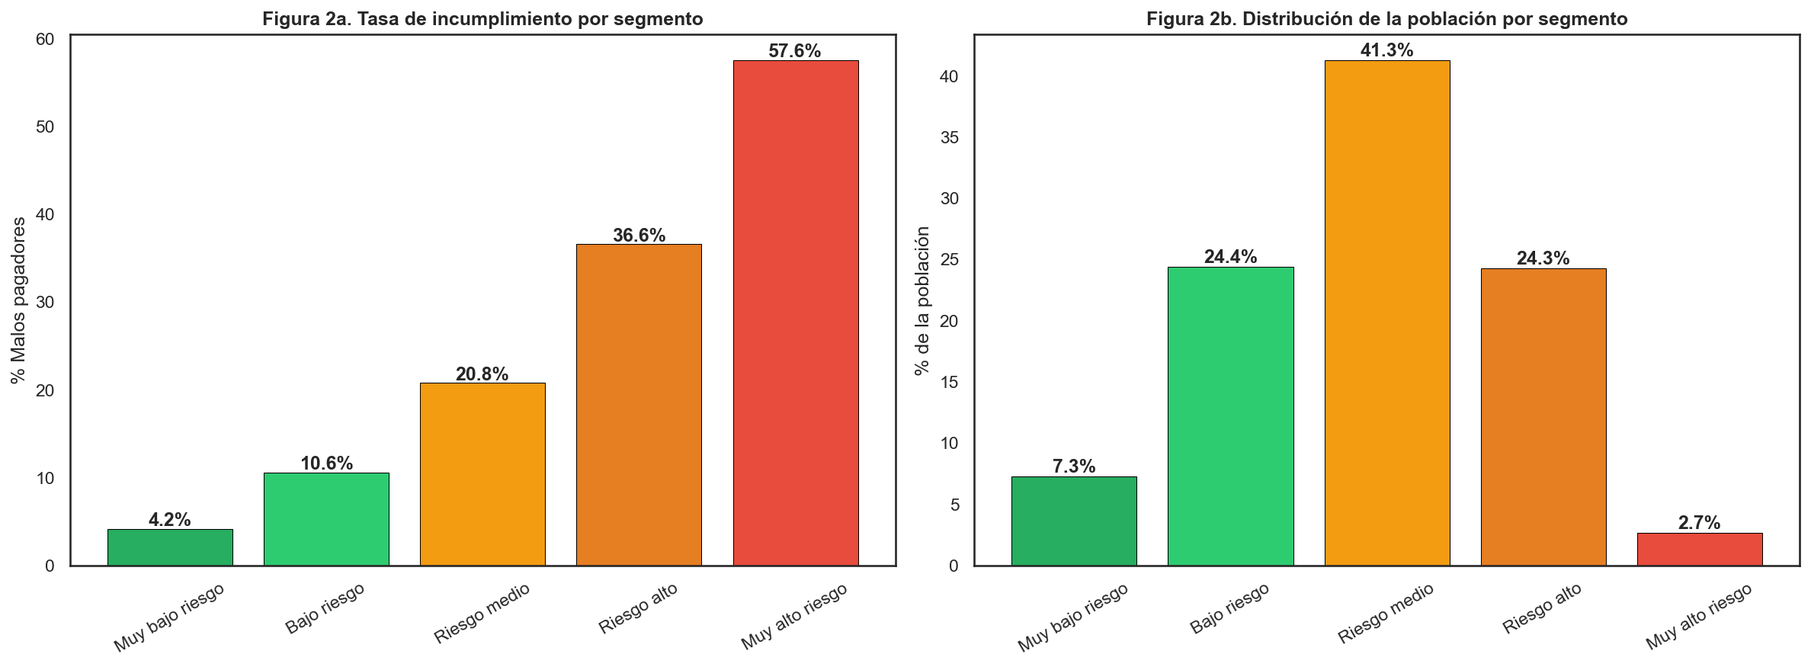
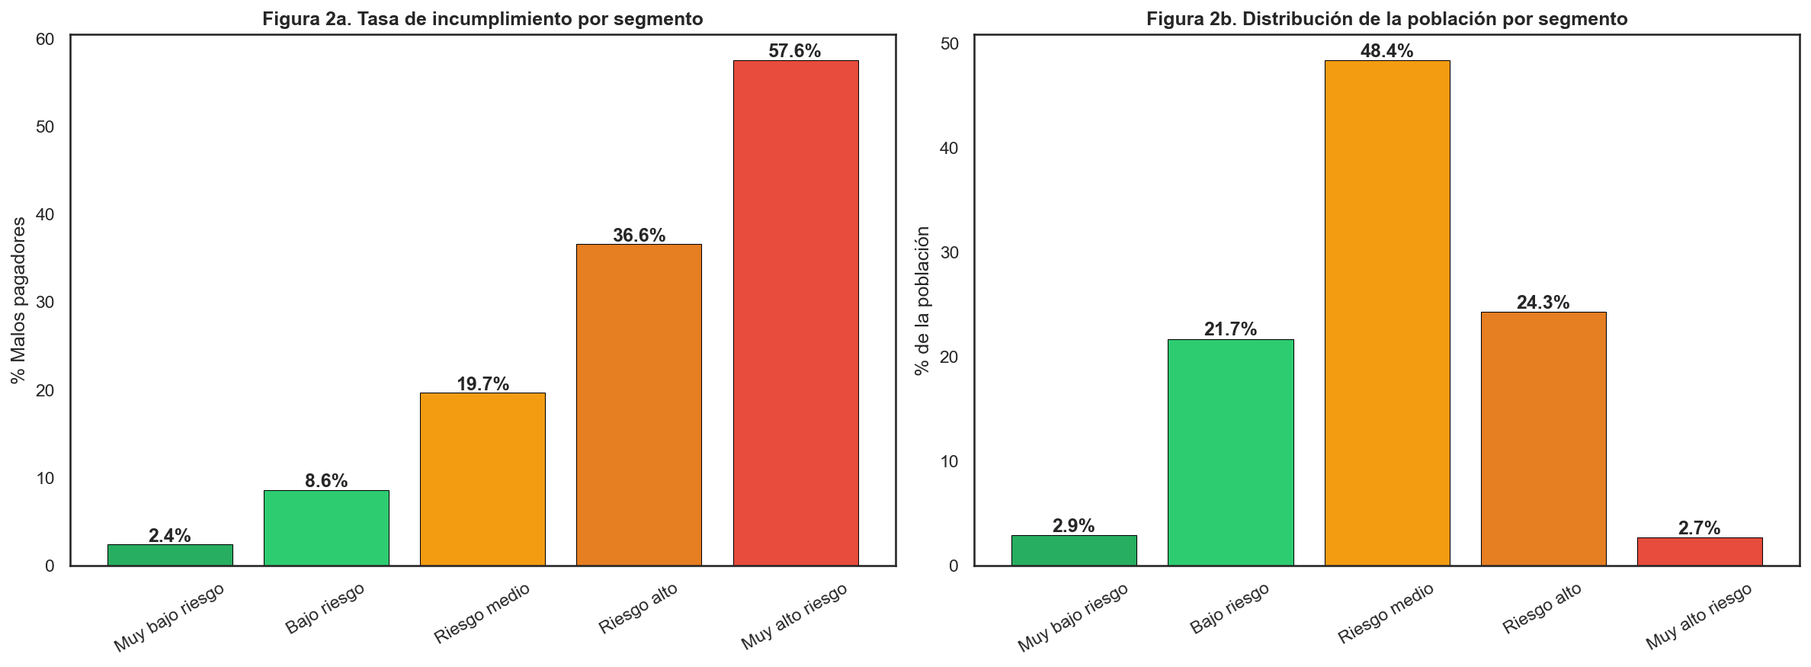
Agregar video y corregir detalles de redacción

diff --git a/docs/casodeuso.md b/docs/casodeuso.md
@@ -60,7 +60,7 @@ $$\text{Score} = \text{Offset} + \text{Factor} \cdot \ln(\text{Odds})$$
 *Ecuación 4. Cálculo del Score Crediticio a partir de los Odds*
 </div>
 
-> **Nota técnica:** En el código, se aplica un truncamiento (*clip*) al resultado final para asegurar que ningún puntaje exceda los límites operativos de [300, 850], manteniendo la consistencia con los estándares de la industria.
+> **Nota:** En el código, se aplica un truncamiento (*clip*) al resultado final para asegurar que ningún puntaje exceda los límites operativos de [300, 850], manteniendo la consistencia con los estándares de la industria.
 
 ## Análisis del Score en la Población
 
@@ -72,14 +72,14 @@ Tras aplicar el modelo al conjunto de prueba, observamos lo siguiente:
 </div>
 
 ### Estadísticas Clave del Modelo:
-*   **Score Mínimo:** 528.5
-*   **Score Máximo:** 685.6
+*   **Score Mínimo:** 530.1
+*   **Score Máximo:** 702.6
 *   **Media General:** 605.0
-*   **Mediana:** 604.2
+*   **Mediana:** 604.0
 
 Como se observa en los boxplots de la **Figura 1**, aunque existe una diferencia entre las medias, esta no es tan pronunciada:
-*   **Buen pagador (Promedio):** 608.5 puntos.
-*   **Mal pagador (Promedio):** 592.7 puntos.
+*   **Buen pagador (Promedio):** 608.4 puntos.
+*   **Mal pagador (Promedio):** 592.5 puntos.
 
 Lo anterior nos permite entender por qué cuesta tanto separar a los buenos pagadores de los malos pagadores y es que sus distribuciones están solapadas en gran parte del tramo de los scores, lo cual influye en el resultado de las predicciones del modelo.
 
@@ -87,30 +87,30 @@ Lo anterior nos permite entender por qué cuesta tanto separar a los buenos paga
 
 Para que el puntaje sea útil en el día a día, dividimos a los clientes en 5 niveles de riesgo. Es importante mencionar que aunque usamos la escala tradicional de 300 a 850 puntos (FICO), los cortes los calibramos según cómo se comportaron realmente los clientes en este dataset, no por estándares externos.
 
+<div style="text-align: center;">
+    <img src="https://raw.githubusercontent.com/jihernandezc/rnaab_riesgo_crediticio/refs/heads/master/output/figs/fig8_segmentacion_riesgo.png" width="900" />
+    <p><em>Figura 2. Segmentación por Nivel de Riesgo</em></p>
+</div>
+
 <div align="center" markdown="1">
 
 *Tabla 1. Segmentación de Riesgo*
 
 | Segmento | Rango de Score | % Población | Mora Observada | Acción Recomendada |
 | :--- | :---: | :---: | :---: | :--- |
-| **Muy bajo riesgo** | **> 640** | 7% | **4%** | Aprobación inmediata y tasas preferenciales. Zona de alta densidad de buenos pagadores. |
-| **Bajo riesgo** | **615 - 640** | 25.2% | **10.5%** | Aprobación estándar. El volumen de "buenos pagadores" supera ampliamente al de "malos". |
-| **Riesgo medio** | **590 - 615** | **40.5%** | **20.8%** | Zona crítica de solapamiento. Requiere validación de ingresos o garantías adicionales. |
-| **Riesgo alto** | **565 - 590** | 24.7% | **36.6** | Mayor densidad de "malos pagadores" que de "buenos". Tasas de castigo o rechazo. |
-| **Muy alto riesgo** | **< 565** | 2.6% | **57.9%** | Rechazo automático. Representa la cola izquierda donde la probabilidad de mora es máxima. |
+| **Muy bajo riesgo** | **> 650** | 2.9% | **2.4%** | Aprobación inmediata y tasas preferenciales. Zona de alta densidad de buenos pagadores. |
+| **Bajo riesgo** | **620 - 650** | 21.7% | **8.6%** | Aprobación estándar. El volumen de "buenos pagadores" supera ampliamente al de "malos". |
+| **Riesgo medio** | **590 - 620** | **48.4%** | **19.7%** | Zona crítica de solapamiento. Requiere validación de ingresos o garantías adicionales. |
+| **Riesgo alto** | **565 - 590** | 24.3% | **36.6** | Mayor densidad de "malos pagadores" que de "buenos". Tasas de castigo o rechazo. |
+| **Muy alto riesgo** | **< 565** | 2.7% | **57.6%** | Rechazo automático. Representa la cola izquierda donde la probabilidad de mora es máxima. |
 
 </div>
 
-Si comparamos estos resultados con un score crediticio tradicional (donde 640 suele ser un puntaje bajo o regular), en nuestro modelo un **640** es en realidad un puntaje **excelente**, ubicando al cliente en el segmento de **Muy Bajo Riesgo**. Esta diferencia en la escala ocurre por dos razones clave:
+Si comparamos estos resultados con un score crediticio tradicional (donde 650 suele ser un puntaje regular), en nuestro modelo un **650** es en realidad un puntaje **excelente**, ubicando al cliente en el segmento de **Muy Bajo Riesgo**. Esta diferencia en la escala ocurre por dos razones clave:
 
-1.  Los datos provienen de *peer-to-peer lending* (LendingClub), un mercado con perfiles de riesgo más volátiles que la banca hipotecaria tradicional. El modelo ha mapeado el éxito dentro de este ecosistema específico, donde alcanzar un score superior a **640** indica una solidez financiera excepcional frente al promedio de la muestra (605).
+1.  Los datos provienen de *peer-to-peer lending* (LendingClub), un mercado con perfiles de riesgo más volátiles que la banca hipotecaria tradicional. El modelo ha mapeado el éxito dentro de este ecosistema específico, donde alcanzar un score superior a **650** indica una solidez financiera excepcional frente al promedio de la muestra (605).
 
-2.  Notamos que al bajar de los **590 puntos**, entramos en el "valle de la mora". En este punto, la densidad de malos pagadores (color rojo en la Figura 1) empieza a ganar terreno rápidamente sobre los buenos pagadores. El modelo marca una frontera de seguridad clara en los **615 puntos**: por encima de este valor, la probabilidad de éxito es significativamente mayor, mientras que por debajo, el riesgo se vuelve errático y difícil de manejar.
-
-<div style="text-align: center;">
-    <img src="https://raw.githubusercontent.com/jihernandezc/rnaab_riesgo_crediticio/refs/heads/master/output/figs/fig8_segmentacion_riesgo.png" width="900" />
-    <p><em>Figura 2. Segmentación por Nivel de Riesgo</em></p>
-</div>
+2.  Notamos que al bajar de los **590 puntos**, entramos en el "valle de la mora". En este punto, la densidad de malos pagadores (color rojo en la Figura 1) empieza a ganar terreno rápidamente sobre los buenos pagadores. El modelo marca una frontera de seguridad clara en los **620 puntos**: por encima de este valor, la probabilidad de éxito es significativamente mayor, mientras que por debajo, el riesgo se vuelve errático y difícil de manejar.
 
 Como se observa en la **Figura 2a**, el modelo logra una distribución balanceada. La mayoría de los clientes se sitúan en la zona media y baja de riesgo, permitiendo un flujo de caja saludable, mientras que la **Figura 2b** valida la potencia del modelo: a medida que el score baja, la columna roja de incumplimiento crece de forma exponencial, confirmando que el algoritmo realmente sabe quién va a fallar.
 
@@ -123,7 +123,7 @@ Como en las Redes Neuronales no podemos ver los coeficientes así de fácil como
     <p><em>Figura 3. Impacto de Variables en el Score</em></p>
 </div>
 
-De la **Figura 3** se desprende que **`int_rate` (Tasa de interés):** es el factor más crítico para determinar el riesgo crediticio, seguida de **`annual_inc` (Ingreso anual);** el modelo depende de este dato para entender la capacidad de respuesta económica del cliente. El tercer lugar lo ocupa **`loan_amnt` (Monto del préstamo)** ya que la red le da mucho peso a qué tan grande es la deuda que se está asumiendo. **`dti` y `term`** son las siguientes en la lista. El modelo las usa para medir la presión financiera mensual y el tiempo de exposición al riesgo (3 o 5 años).
+De la **Figura 3** se desprende que **`int_rate` (Tasa de interés):** es el factor más crítico para determinar el riesgo crediticio, seguida de **`annual_inc` (Ingreso anual);** el modelo depende de este dato para entender la capacidad de respuesta económica del cliente. El tercer lugar lo ocupa **`loan_amnt` (Monto del préstamo)** ya que la red le da mucho peso a qué tan grande es la deuda que se está asumiendo. **`dti` y `term`** son las siguientes en la lista. El modelo las usa para medir la presión financiera mensual y el tiempo de exposición al riesgo.
 
 # Casos de Uso
 
@@ -166,73 +166,70 @@ El modelo de riesgo crediticio no opera en el vacío: detrás de cada predicció
 
 <div class="cases-grid">
 
-<!-- CASO 1: ERROR -->
+<!-- CASO 1: ACIERTO -->
 
 <div class="case-card">
   <div class="case-header">
-    <div class="avatar" style="background:#fee2e2;color:#991b1b;">ML</div>
+    <div class="avatar" style="background:#fef3c7;color:#92400e;">C1</div>
     <div class="case-meta">
-      <p class="case-name">María López <span style="font-size: 0.8em; color: #666;">(ID: 118663)</span></p>
-      <p class="case-role">Other · Utilización: 82.80% · DTI: 2.05%</p>
+      <p class="case-name">María López <span style="font-size: 0.8em; color: #666;">(ID: 378291)</span></p>
+      <p class="case-role">Debt consolidation · Utilización: 56.90% · DTI: 20.64%</p>
     </div>
-    <span class="badge badge-high">Riesgo alto</span>
+    <span class="badge badge-medium">Riesgo medio</span>
   </div>
   <div class="case-body">
     <div class="case-context">
-      <p>María solicitó un crédito con propósito clasificado como <strong>"Other"</strong>, categoría poco informativa y generalmente asociada a mayor incertidumbre.</p>
-      <p>A pesar de su <strong>alta utilización de crédito (82.80%)</strong>, el modelo asignó un score de <strong>590 puntos</strong>, ubicándola en riesgo alto.</p>
+      <p>El solicitante buscaba consolidar deudas, presentando un nivel de endeudamiento relativamente alto (<strong>DTI: 20.64%</strong>) y una utilización de crédito elevada.</p>
+      <p>El modelo asignó un score de <strong>593 puntos</strong>, ubicándolo en riesgo medio, reflejando correctamente señales de vulnerabilidad financiera.</p>
     </div>
     <div class="case-metrics">
       <div class="metric-row">
         <span class="metric-label">Score crediticio</span>
-        <span class="metric-value">590 pts</span>
+        <span class="metric-value">593 pts</span>
       </div>
       <div class="score-bar-wrap">
-        <div class="score-track"><div class="score-fill" style="width:52%;background:#ef4444;"></div></div>
+        <div class="score-track"><div class="score-fill" style="width:53%;background:#f59e0b;"></div></div>
         <div class="score-labels"><span>300</span><span>600</span><span>850</span></div>
       </div>
       <div class="metric-row">
         <span class="metric-label">Segmento detectado</span>
-        <span class="metric-value" style="color:#991b1b;">Riesgo Alto</span>
+        <span class="metric-value" style="color:#f59e0b;">Riesgo Medio</span>
       </div>
       <div class="metric-row">
         <span class="metric-label">Resultado real</span>
-        <span class="metric-value" style="color:#166534;">Buen pagador</span>
+        <span class="metric-value" style="color:#991b1b;">Mal pagador</span>
       </div>
     </div>
   </div>
   <div class="verdict">
-    <div class="verdict-icon icon-fail">✗</div>
-    <span><strong>ERROR:</strong> El modelo penalizó fuertemente la alta utilización de crédito y el propósito ambiguo, pero no logró capturar que María mantenía un buen comportamiento de pago.</span>
+    <div class="verdict-icon icon-ok">✓</div>
+    <span><strong>ACIERTO:</strong> El modelo identificó correctamente el riesgo asociado a un alto nivel de endeudamiento y utilización, anticipando el incumplimiento del cliente.</span>
   </div>
-</div>
-<div align="center">
-<p></p><em>Figura 4. Error de clasificación (falso negativo) en perfil con alta utilización de crédito</em></p>
 </div>
 
 <!-- CASO 2: ACIERTO -->
 
 <div class="case-card">
   <div class="case-header">
-    <div class="avatar" style="background:#dbeafe;color:#1d4ed8;">CR</div>
+    <div class="avatar" style="background:#dbeafe;color:#1d4ed8;">C2</div>
     <div class="case-meta">
-      <p class="case-name">Carlos Ríos <span style="font-size: 0.8em; color: #666;">(ID: 232653)</span></p>
-      <p class="case-role">Credit Card · Utilización: 47.80% · DTI: 14.14%</p>
+      <p class="case-name">Carlos Peña<span style="font-size: 0.8em; color: #666;">(ID: 9388)</span></p>
+      <p class="case-role">Wedding · Utilización: 35.00% · DTI: 16.14%</p>
     </div>
     <span class="badge badge-low">Bajo riesgo</span>
   </div>
   <div class="case-body">
     <div class="case-context">
-      <p>Carlos solicitó crédito para manejo de <strong>tarjeta de crédito</strong>, con una utilización moderada y niveles de endeudamiento controlados.</p>
-      <p>El modelo le asignó <strong>616 puntos</strong>, clasificándolo correctamente dentro del segmento de bajo riesgo.</p>
+      <p>El crédito fue solicitado para un evento personal (boda), con indicadores financieros relativamente saludables: utilización moderada y DTI controlado.</p>
+      <p>El modelo asignó <strong>631 puntos</strong>, clasificando correctamente al cliente como de bajo riesgo.</p>
     </div>
     <div class="case-metrics">
       <div class="metric-row">
         <span class="metric-label">Score crediticio</span>
-        <span class="metric-value">616 pts</span>
+        <span class="metric-value">631 pts</span>
       </div>
       <div class="score-bar-wrap">
-        <div class="score-track"><div class="score-fill" style="width:58%;background:#3b82f6;"></div></div>
+        <div class="score-track"><div class="score-fill" style="width:60%;background:#3b82f6;"></div></div>
         <div class="score-labels"><span>300</span><span>600</span><span>850</span></div>
       </div>
       <div class="metric-row">
@@ -247,41 +244,38 @@ El modelo de riesgo crediticio no opera en el vacío: detrás de cada predicció
   </div>
   <div class="verdict">
     <div class="verdict-icon icon-ok">✓</div>
-    <span><strong>ACIERTO:</strong> El modelo interpretó correctamente el balance entre utilización moderada y nivel de deuda manejable, identificando a Carlos como un cliente confiable.</span>
+    <span><strong>ACIERTO:</strong> El modelo capturó adecuadamente un perfil estable, donde niveles moderados de deuda y uso del crédito indican bajo riesgo de incumplimiento.</span>
   </div>
 </div>
-<div align="center">
-<p></p><em>Figura 5. Acierto del modelo en perfil de bajo riesgo con utilización y DTI controlados </em></p>
-</div>
 
-<!-- CASO 3: ACIERTO -->
+<!-- CASO 3: ERROR -->
 
 <div class="case-card">
   <div class="case-header">
-    <div class="avatar" style="background:#dbeafe;color:#1d4ed8;">AP</div>
+    <div class="avatar" style="background:#fee2e2;color:#991b1b;">C3</div>
     <div class="case-meta">
-      <p class="case-name">Alejandra Paredes <span style="font-size: 0.8em; color: #666;">(ID: 182558)</span></p>
-      <p class="case-role">Credit Card · Utilización: 28.90% · DTI: 17.45%</p>
+      <p class="case-name">Alejandra Vanegas <span style="font-size: 0.8em; color: #666;">(ID: 104578)</span></p>
+      <p class="case-role">Debt consolidation · Utilización: 90.20% · DTI: 15.06%</p>
     </div>
-    <span class="badge badge-medium">Riesgo medio</span>
+    <span class="badge badge-high">Riesgo alto</span>
   </div>
   <div class="case-body">
     <div class="case-context">
-      <p>Alejandra presenta un perfil equilibrado con <strong>baja utilización de crédito</strong> y un nivel de endeudamiento moderado.</p>
-      <p>El score de <strong>611 puntos</strong> la ubicó en riesgo medio, reflejando correctamente un perfil con cierto nivel de exposición pero aún saludable.</p>
+      <p>El solicitante presenta una <strong>utilización extremadamente alta (90.20%)</strong>, una de las variables más penalizadas por el modelo.</p>
+      <p>Esto llevó a un score de <strong>576 puntos</strong>, clasificándolo como riesgo alto, a pesar de que su DTI se mantiene en niveles moderados.</p>
     </div>
     <div class="case-metrics">
       <div class="metric-row">
         <span class="metric-label">Score crediticio</span>
-        <span class="metric-value">611 pts</span>
+        <span class="metric-value">576 pts</span>
       </div>
       <div class="score-bar-wrap">
-        <div class="score-track"><div class="score-fill" style="width:57%;background:#f59e0b;"></div></div>
+        <div class="score-track"><div class="score-fill" style="width:50%;background:#ef4444;"></div></div>
         <div class="score-labels"><span>300</span><span>600</span><span>850</span></div>
       </div>
       <div class="metric-row">
         <span class="metric-label">Segmento detectado</span>
-        <span class="metric-value" style="color:#f59e0b;">Riesgo Medio</span>
+        <span class="metric-value" style="color:#991b1b;">Riesgo Alto</span>
       </div>
       <div class="metric-row">
         <span class="metric-label">Resultado real</span>
@@ -290,22 +284,19 @@ El modelo de riesgo crediticio no opera en el vacío: detrás de cada predicció
     </div>
   </div>
   <div class="verdict">
-    <div class="verdict-icon icon-ok">✓</div>
-    <span><strong>ACIERTO:</strong> El modelo evaluó correctamente un perfil intermedio, donde una baja utilización compensa un DTI más elevado, resultando en una predicción acertada.</span>
+    <div class="verdict-icon icon-fail">✗</div>
+    <span><strong>ERROR:</strong> El modelo sobreponderó la utilización de crédito como señal de riesgo, sin capturar otros factores compensatorios, generando un falso negativo.</span>
   </div>
 </div>
-<div align="center">
-<p></p><em>Figura 6. Acierto del modelo en perfil de riesgo intermedio con variables compensadas</em></p>
-</div>
 </div>
 
-Los casos presentados en las figuras 4, 5 y 6 ilustran tres lecciones clave para interpretar los resultados de nuestro scorecard:
+Los casos presentados anteriormente ilustran tres lecciones clave para interpretar los resultados de nuestro scorecard:
 
-**1.** El caso de **María (590 pts)** nos recuerda que el modelo no es infalible y tiende a ser conservador ante señales de alerta agresivas. Aunque su bajísimo endeudamiento (DTI: 2.05%) sugería solvencia, la **tasa de interés del 24%** y una utilización de crédito al tope actuaron como "banderas rojas" que arrastraron su score al segmento de Riesgo Alto. Este "Error" en la predicción real nos enseña que existen perfiles con hábitos de uso de crédito agresivos que, sin embargo, mantienen una disciplina de pago impecable.
+**1.** El caso de María**(593 pts)** evidencia la capacidad del modelo para identificar perfiles con señales claras de vulnerabilidad financiera. A pesar de no presentar valores extremos en una sola variable, la combinación de un **DTI elevado (20.64%)** y una utilización de crédito relativamente alta generó una clasificación de **Riesgo Medio**. Este resultado fue consistente con la realidad (mal pagador), lo que constituye un **acierto del modelo**. Este caso demuestra que el scorecard no depende únicamente de outliers, sino que puede capturar riesgos acumulativos derivados de múltiples factores moderados.
 
-**2.** El puntaje de **Carlos (616 pts)** demuestra la importancia de la moderación. A diferencia de María, Carlos no presenta valores extremos: su tasa es baja y su uso del crédito está equilibrado. El modelo lo identifica como **Bajo Riesgo** no porque sea un cliente perfecto, sino porque su perfil carece de los picos de volatilidad que suelen preceder a un impago. Es el ejemplo claro de cómo la estabilidad en las variables clave (Tasa e Ingresos) construye un score sólido.
+**2.** El caso de Carlos**(631 pts)** demuestra la importancia de la estabilidad en las variables clave. Con una **tasa de interés baja (11.49%)**, una utilización controlada (35%) y un nivel de endeudamiento manejable (**DTI: 16.14%**), el modelo clasificó correctamente al cliente como **Bajo Riesgo**. Este **acierto** refleja cómo la ausencia de señales de estrés financiero permite al scorecard identificar perfiles confiables. En este contexto, no se trata de valores excepcionalmente bajos, sino de un equilibrio general que reduce la probabilidad de incumplimiento.
 
-**3.** El caso de **Alejandra (611 pts)** subraya la capacidad del modelo para detectar el equilibrio en el **Riesgo Medio**. Aunque Alejandra tiene un nivel de deuda (DTI) superior al de los otros casos, el modelo compensó este factor al detectar una **utilización de crédito muy baja (28.9%)**. Este balance objetivo permite que el scorecard no descalifique a usuarios con deudas activas, siempre y cuando demuestren que no están "al límite" de su capacidad crediticia. El acierto en este caso valida que la red aprendió a ponderar el comportamiento de gasto por encima del simple volumen de deuda.
+**3.** El caso de Alejandra**(576 pts)** pone en evidencia una limitación del modelo frente a variables altamente penalizadas. La **utilización de crédito extremadamente alta (90.20%)** y una tasa elevada (22.20%) llevaron a clasificar al cliente como **Riesgo Alto**. Sin embargo, en la realidad se trata de un buen pagador, lo que constituye un **error (falso negativo)**. Este comportamiento sugiere que el modelo tiende a sobreponderar la utilización de crédito como señal de riesgo, sin capturar adecuadamente factores compensatorios como la disciplina de pago o la gestión efectiva de la deuda.
 
 ## Referencias 
 

diff --git a/docs/modelos.md b/docs/modelos.md
@@ -22,7 +22,7 @@ Antes de sumergirnos en la complejidad de las redes neuronales, implementamos un
 El entrenamiento se configuró con parámetros específicos para garantizar la estabilidad y el manejo del desbalance:
 
 *   **Solver `lbfgs` (Limited-memory Broyden–Fletcher–Goldfarb–Shanno):** Seleccionamos este optimizador porque es altamente eficiente para problemas de clasificación multivariable en conjuntos de datos grandes. Pertenece a la familia de métodos de "cuasi-Newton" y utiliza una cantidad limitada de memoria computacional para aproximar la curvatura de la función de pérdida, lo que permite una convergencia más rápida que el descenso de gradiente estándar.
-*   **`max_iter=1000`:** Dado que el dataset tiene 94 variables tras la codificación, aumentamos el límite de iteraciones para asegurar que el algoritmo encuentre el mínimo global de la función de costo y no se detenga prematuramente (evitando errores de "non-convergence").
+*   **`max_iter=1000`:** Ponemos este límite de iteraciones para asegurar que el algoritmo encuentre el mínimo global de la función de costo y no se detenga prematuramente (evitando errores de "non-convergence").
 *   **`class_weight='balanced'`:** Esta es quizás la decisión más crítica. El dataset original es desbalanceado (78% buenos vs 22% malos). Sin este parámetro, el modelo tendería a predecir que "todos son buenos" para maximizar el acierto simple. Al balancear, el algoritmo aplica una **penalización mayor** a los errores cometidos sobre la clase minoritaria (los malos pagadores), forzando al modelo a aprender sus características distintivas.
 
 ### Resultados
@@ -72,9 +72,9 @@ $$Peso = \frac{N_{total}}{k \cdot n_{clase}}$$
 </div>
 
 Donde:
-*   **$N_{total}$**: Es el número total de registros en el set de entrenamiento (**214,824**).
-*   **$k$**: Es el número de clases (**2**: Bueno y Malo).
-*   **$n_{clase}$**: Es la cantidad de registros que hay de esa clase específica.
+*   **$$N_{total}$$**: Es el número total de registros en el set de entrenamiento (**214,824**).
+*   **$$k$$**: Es el número de clases (**2**: Bueno y Malo).
+*   **$$n_{clase}$$**: Es la cantidad de registros que hay de esa clase específica.
 
 En nuestro caso, la distribución era:
 *   **Buenos pagadores (0):** 167,769 registros.
@@ -111,8 +111,6 @@ Al aplicar estos pesos, la función de pérdida (**Binary Crossentropy**) se vue
 Diseñamos una arquitectura de modelo **secuencial** compuesta por una capa de entrada de **128 neuronas**, seguida de dos capas ocultas de **64 y 32 neuronas** respectivamente. Todas las capas son **densas**, lo que significa que cada neurona está conectada con todas las de la capa siguiente para maximizar el flujo de información. Para las capas internas, utilizamos la función de activación **ReLU**, que ayuda a mitigar el problema de desvanecimiento del gradiente, mientras que en la capa de salida empleamos una función **Sigmoide**. Esta última nos entrega un valor entre 0 y 1, interpretado como la probabilidad de incumplimiento, permitiendo graduar la certeza del modelo sobre cada cliente.
 
 Configuramos una **tasa de aprendizaje de 0.001**, un valor equilibrado para asegurar que el modelo converja de forma estable sin colapsar la memoria ni quedar atrapado prematuramente en un mínimo local. Para combatir el **sobreentrenamiento (overfitting)**, implementamos un **ratio de dropout del 30%** en cada capa, "apagando" neuronas aleatoriamente durante el entrenamiento para evitar que el modelo simplemente memorice los datos. Adicionalmente, aplicamos **Batch Normalization** para normalizar las activaciones entre capas, lo que estabiliza el proceso y acelera la convergencia.
-
-### Entrenamiento y Resultados Iniciales
 
 Compilamos la red utilizando el optimizador **Adam** y la función de pérdida **binary_crossentropy**, ideal para nuestro objetivo binario. Implementamos dos **Callbacks** estratégicos:
 *   **EarlyStopping:** Detiene el entrenamiento si el AUC de validación no mejora tras 10 épocas, restaurando los mejores pesos encontrados.
@@ -164,7 +162,6 @@ Con un dataset balanceado, el siguiente reto fue encontrar la estructura de red 
 2.  **Dropout:** Probamos valores de 0.3, 0.4 y 0.5 para encontrar el punto exacto donde el modelo deja de memorizar (overfitting) y comienza a generalizar.
 3.  **Learning Rate (Tasa de aprendizaje):** Evaluamos 0.001 y 0.0005 para ajustar la velocidad de convergencia.
 
-**Hallazgos de la Optimización:**
 La combinación ganadora fue la arquitectura **"Muy ancha"**, compuesta por **dos capas ocultas de 512 y 256 neuronas**. Se determinó que un **dropout del 0.5** era necesario para regularizar una red tan ancha, junto con una **tasa de aprendizaje de 0.001**. Esta configuración alcanzó un **AUC-ROC de 0.6985** y un F1-Score de 0.4428.
 
 ### Entrenamiento del Modelo Optimizado
@@ -172,7 +169,6 @@ Utilizando la mejor combinación encontrada, procedimos a entrenar el modelo def
 *   **Paciencia de 15 épocas** en el EarlyStopping para permitir que la red explorara mejor el espacio de soluciones.
 *   **Batch size de 1024**, duplicando el anterior para aprovechar la mayor cantidad de datos generados por SMOTE y estabilizar las estimaciones del gradiente.
 
-### Ajuste del Umbral de Clasificación Óptimo
 Por defecto, una red neuronal clasifica a un cliente como "mal pagador" si la probabilidad es mayor a 0.5 (50%). Sin embargo, en riesgo crediticio, este umbral no siempre es el más rentable para el negocio.
 
 <div style="text-align: center;">
@@ -190,7 +186,7 @@ Realizamos un barrido de umbrales desde el 10% hasta el 90% para encontrar el pu
 
 | Métrica | Clase / Promedio | Precisión | Recall | F1-Score | Soporte |
 | :--- | :--- | :---: | :---: | :---: | :---: |
-| **Clase 0** | Buen pagador | 0.87 | 0.65 | 0.75 | 41,942 |
+| **Clase 0** | Buen pagador | 0.87 | 0.65 | 0.74 | 41,942 |
 | **Clase 1** | Mal pagador | 0.34 | 0.64 | 0.45 | 11,764 |
 | **Exactitud** | *Accuracy* | | | **0.65** | 53,706 |
 | **Promedio Simple** | *Macro Avg* | 0.60 | 0.65 | 0.60 | 53,706 |
@@ -207,19 +203,19 @@ Realizamos un barrido de umbrales desde el 10% hasta el 90% para encontrar el pu
 
 Los resultados obtenidos con la red optimizada utilizando SMOTE, presentados en la Tabla 3 y la Figura 4, revelan los siguientes aprendizajes:
 
-*   **AUC-ROC (0.7038):** Prácticamente idéntico al modelo base y apenas **0.0062** por encima de la Regresión Logística.
+*   **AUC-ROC (0.7037):** Prácticamente idéntico al modelo base y apenas **0.0061** por encima de la Regresión Logística.
 *   **Recall (64%) y Precisión (34%) para la clase 1:** Las métricas de clasificación se mantienen estancadas en los mismos niveles que el baseline inicial.
 *   **F1-Score (0.45):** No hubo una mejora significativa en el equilibrio entre sensibilidad y precisión.
 
 ## 4. Aprendizajes del Proceso de Modelamiento
 
-Tras experimentar con técnicas como redes neuronales y el sobremuestreo sintético (**SMOTE**), el rendimiento del modelo se mantuvo en el rango de **0.703 de AUC-ROC**. Este comportamiento nos lleva a reflexionar sobre la naturaleza de los datos y la complejidad del problema:
+Tras comparar el resultado de una simple regresión logística con el de redes neuronales y el sobremuestreo sintético (**SMOTE**), el rendimiento del modelo se mantuvo en el rango de **0.70 de AUC-ROC**. Este comportamiento nos lleva a reflexionar sobre la naturaleza de los datos y la complejidad del problema:
 
-* A pesar de que la Red Neuronal con SMOTE logró el mejor desempeño (AUC: 0.7038), la mejora respecto a la Regresión Logística básica fue de apenas **0.9 puntos porcentuales**. Este fenómeno se explica mediante el ***"Flat-maximum effect"***. Según **Overstreet et al. (1992)**, en el scoring crediticio existe una robustez inherente donde modelos lineales simples suelen rendir casi a la par de modelos altamente complejos. Esto sugiere que las variables financieras tradicionales (DTI, tasa, ingresos) han entregado toda la "señal" posible, y el ruido restante no puede ser capturado solo con algoritmos más potentes.
+* A pesar de que la Red Neuronal con SMOTE logró el mejor desempeño (AUC: 0.703), la mejora respecto a la Regresión Logística básica fue de apenas **0.0061**. Este fenómeno se explica mediante el ***"Flat-maximum effect"***. Según **Overstreet et al. (1992)**, en el scoring crediticio existe una robustez inherente donde modelos lineales simples suelen rendir casi a la par de modelos altamente complejos. Esto sugiere que las variables financieras tradicionales (DTI, tasa, ingresos) han entregado toda la "señal" posible, y el ruido restante no puede ser capturado solo con algoritmos más potentes.
 
-* Desde una perspectiva de ingeniería, la implementación de arquitecturas de redes neuronales demandó un costo computacional y de mantenimiento significativamente mayor. No obstante, en el sector financiero, incluso una mejora marginal puede traducirse en ahorros millonarios. Aun así, como bien señalan **Lessmann et al. (2015)** en su estudio comparativo de algoritmos de scoring, las mejoras de las técnicas modernas sobre los modelos lineales suelen ser marginales y requieren un esfuerzo de optimización desproporcionado.
+* Desde una perspectiva de ingeniería, la implementación de arquitecturas de redes neuronales demandó un costo computacional y de mantenimiento significativamente mayor. Como bien señalan **Lessmann et al. (2015)** en su estudio comparativo de algoritmos de scoring, las mejoras de las técnicas modernas sobre los modelos lineales suelen ser marginales y requieren un esfuerzo de optimización desproporcionado.
 
-* Aunque un AUC de 0.7038 pueda parecer modesto en otras áreas de la IA, en el análisis de riesgo crediticio se considera un desempeño **"Aceptable a Bueno"**. De acuerdo con la escala de **Hosmer et al. (2013)**, un valor por encima de 0.70 indica una capacidad de discriminación adecuada para la toma de decisiones institucionales.
+* Aunque un AUC de 0.7037 pueda parecer modesto en otras áreas de la IA, en el análisis de riesgo crediticio se considera un desempeño **"Aceptable a Bueno"**. De acuerdo con la escala de **Hosmer et al. (2013)**, un valor por encima de 0.70 indica una capacidad de discriminación adecuada para la toma de decisiones institucionales.
 
 El aprendizaje más valioso de este proceso es que hemos alcanzado el límite de rendimiento con el conjunto de información disponible. El modelo funciona bien dentro de sus parámetros, pero los resultados confirman que la ventaja competitiva en el futuro no vendrá de una red neuronal más profunda, sino del enriquecimiento del dataset con nuevas fuentes de información (como datos alternativos, comportamiento digital, etc.) o la complementación con técnicas de inteligencia artificial explicable para entender mejor las decisiones del modelo.
 

diff --git a/docs/index.md b/docs/index.md
@@ -22,7 +22,7 @@
 
 El riesgo de crédito es, en esencia, la probabilidad de que un cliente no cumpla con sus obligaciones financieras. Para una entidad bancaria, no identificar a un "mal pagador" a tiempo se traduce en pérdidas directas de capital, mientras que rechazar a un "buen pagador" representa un costo de oportunidad significativo.
 
-El propósito de este proyecto, es utilizar el [*Credit Risk Dataset* de Kaggle](https://www.kaggle.com/datasets/ranadeep/credit-risk-dataset/data) para construir un sistema que no solo prediga la probabilidad de que un individuo incumpla con sus obligaciones financieras, sino que esa predicción sea interpretable para el negocio. No buscamos una "caja negra", sino una herramienta accionable que asigne un puntaje (Scorecard) basado en el comportamiento histórico y características sociodemográficas.
+El propósito de este proyecto, es utilizar el [*Credit Risk Dataset* de Kaggle](https://www.kaggle.com/datasets/ranadeep/credit-risk-dataset/data) para construir un sistema que no solo prediga la probabilidad de que un individuo incumpla con sus obligaciones financieras, sino que esa predicción sea interpretable para el negocio.
 
 ## 2. Metodología del Proyecto
 
@@ -44,14 +44,13 @@ Identificación de patrones, valores atípicos (outliers) y relaciones entre var
 
 ### Fase V: Construcción de la Scorecard
 1.  **Traducción de Probabilidades:** Conversión de la salida sigmoide de la red neuronal en una escala de puntos (Score).
-2.  **Análisis de Atributos:** Identificación de las variables con mayor impacto en el riesgo mediante técnicas de importancia de características (SHAP o pesos del modelo).
+2.  **Análisis de Atributos:** Identificación de las variables con mayor impacto en el riesgo mediante técnicas de importancia de características.
 
 ### Fase VI: Desarrollo del Sitio Web
 1.  Integración del modelo entrenado en un entorno de ejecución.
 2.  Diseño de una interfaz intuitiva donde el usuario ingresa sus datos y recibe:
     * Su puntaje crediticio (Score).
     * Su posición relativa frente a la población general.
-3.  Gráficas comparativas 
 
 ### Fase VII: Comunicación y Difusión
 1.  **Reporte Técnico:** Documentación de cada fase del proyecto, resultados obtenidos y análisis de desempeño.

diff --git a/docs/sitio-web.md b/docs/sitio-web.md
@@ -12,6 +12,9 @@
 
 Para facilitar el uso de nuestro modelo de riesgo crediticio, desarrollamos un sitio web interactivo que permite a los usuarios ingresar sus datos financieros y recibir una evaluación personalizada de su riesgo crediticio. Además, creamos un video promocional que resume el proyecto y destaca su relevancia en el sector financiero.
 
+<iframe width="315" height="560" src="https://youtu.be/iHfpLri8KlQ" title="Video Promocional y Contribuciones" frameborder="0" allow="accelerometer; autoplay; clipboard-write; encrypted-media; gyroscope; picture-in-picture" allowfullscreen> </iframe>
+Video Promocional y Contribuciones individuales
+
 Accede al sitio web a través del siguiente enlace:
 
 <div align="center">
